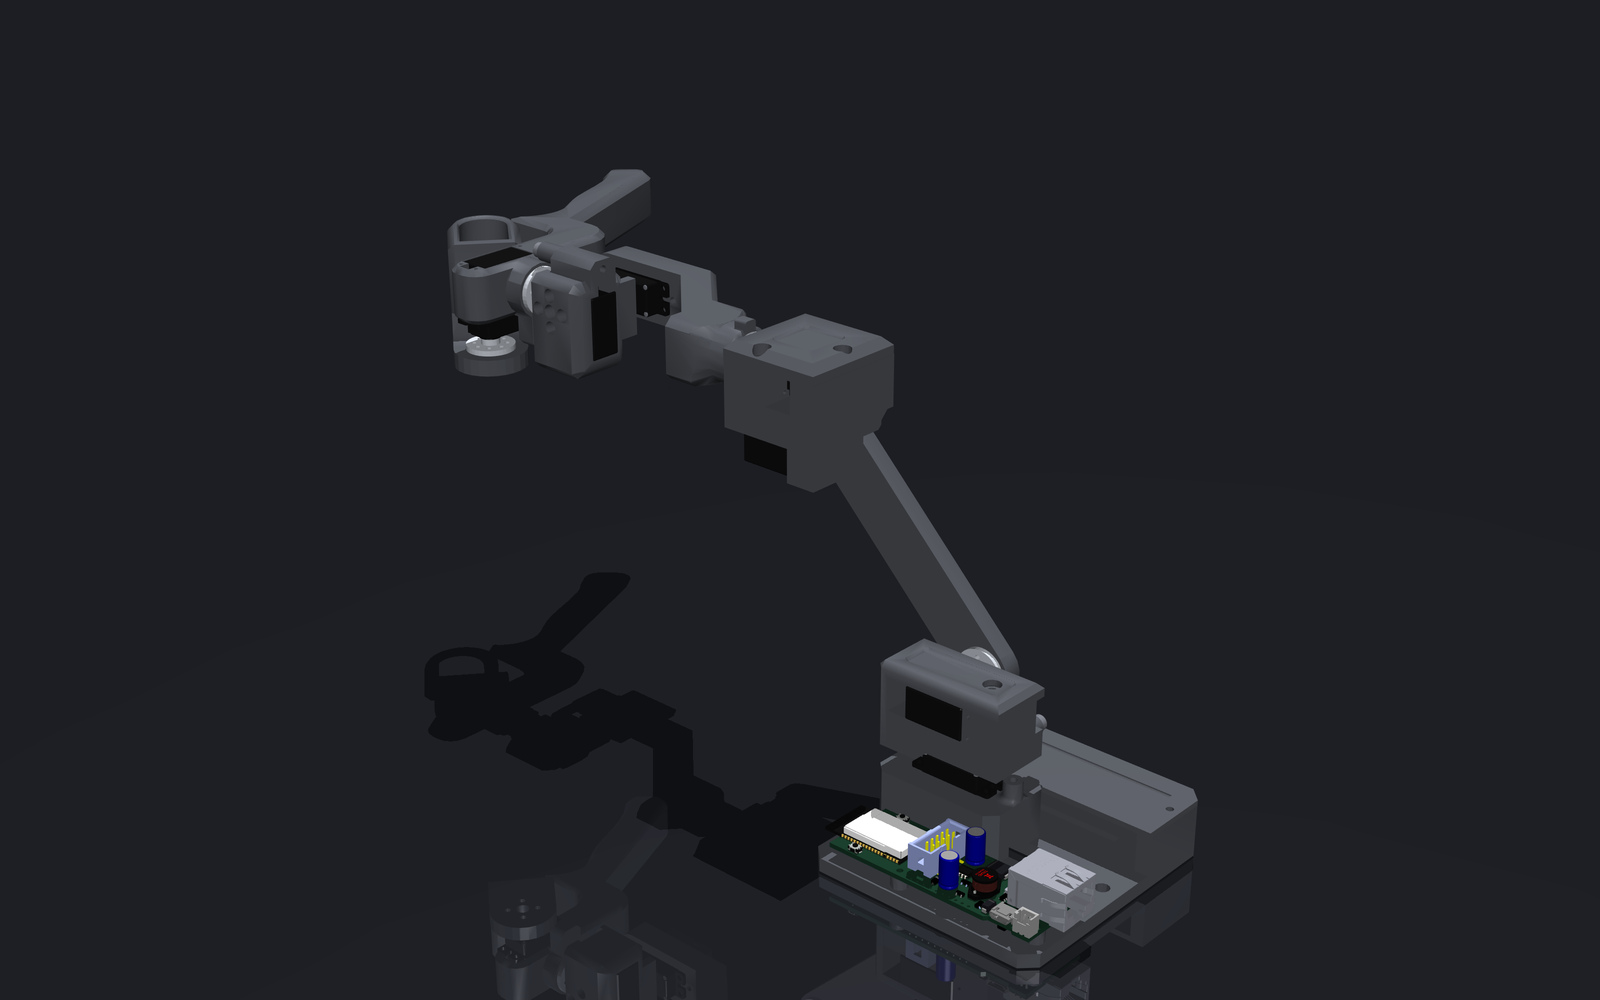
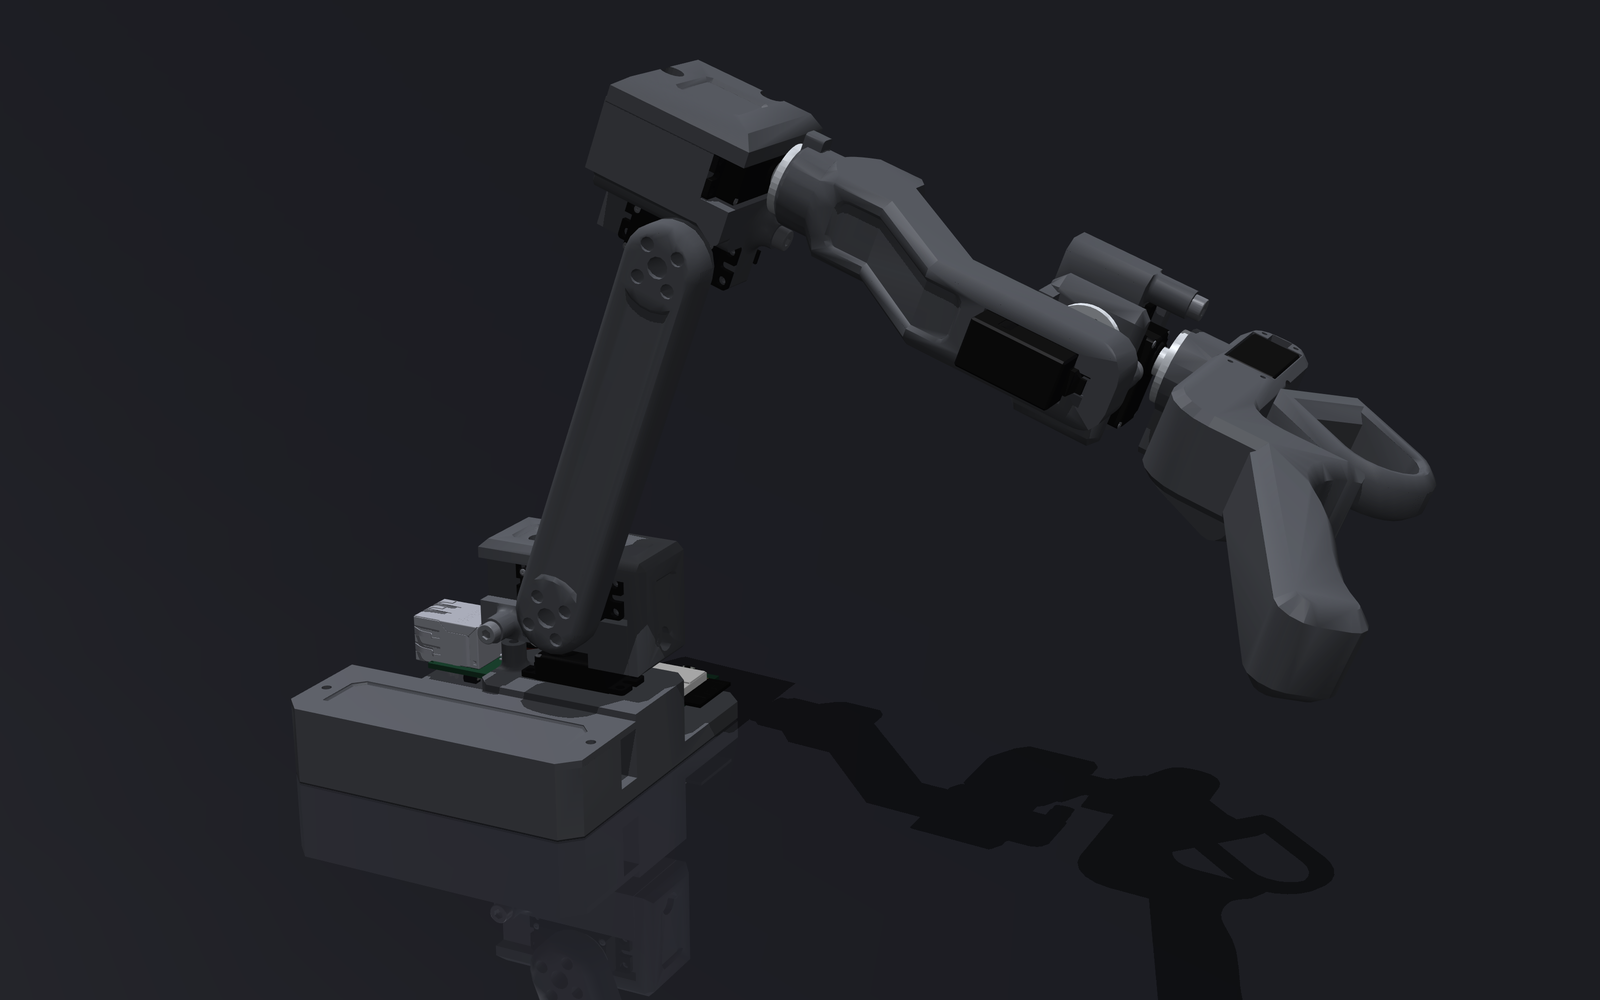
README: the hero render is the cover; the gallery is gone
Photos/RAFT_arm_img.png is now the arm with the handle held in front, in the
dark studio. The gallery section and its six pictures are removed, and
tools/render_gallery.py becomes tools/render_cover.py, which renders only the
cover (it reproduces the picture within 1/255). The assembly manual names the
model its pictures come from (firmware/tools/sim/model), not raft_description.

Changed region(s): [[0.2812, 0.062, 0.9062, 1.0], [0.1875, 0.496, 0.4688, 0.837], [0.3125, 0.93, 0.3438, 1.0]]

diff --git a/tools/render_cover.py b/tools/render_cover.py
@@ -1,5 +1,5 @@
-"""Render the README's pictures of RAFT from its MuJoCo model into "Photos/": two views of the whole arm and the arm
-in five poses, each in a light and a dark studio (GitHub shows the one matching the reader's theme).
+"""Render the README's cover picture of RAFT from its MuJoCo model into "Photos/RAFT_arm_img.png": the arm with the
+handle held in front, as for teleoperation, in a dark studio.
 
 The arm's meshes are split into printed parts, servos, horns and screws as in render_assembly.py, each with its own
 material in the colours of RAFT's palette in robot_descriptions (the raft_* keys), and posed with the simulators'
@@ -7,7 +7,7 @@ model's keyframes. The ESP32-PoE is not in the model; given Olimex's board STEP
 (ESP32-PoE_Rev_L.step, or a GLB made from it) it sits on the Base as in the assembly manual (STEP needs cascadio).
 
     pip install mujoco trimesh pillow numpy
-    python tools/render_gallery.py [--esp32 path/to/ESP32-PoE_Rev_L.step]
+    python tools/render_cover.py [--esp32 path/to/ESP32-PoE_Rev_L.step]
 """
 import argparse
 import sys
@@ -16,24 +16,18 @@ from pathlib import Path
 
 import mujoco
 import numpy as np
-from PIL import Image, ImageDraw
+from PIL import Image
 
 sys.path.insert(0, str(Path(__file__).resolve().parent))
-import render_assembly as ra  # noqa: E402  (shell sorting, the board, fonts)
+import render_assembly as ra  # noqa: E402  (shell sorting, the board)
 
-OUT = ra.ROOT / "Photos"
+COVER = ra.ROOT / "Photos" / "RAFT_arm_img.png"
 SS = 2                                                   # rendered at twice the saved size, then scaled down
 BODIES = ["base_link", "link1", "link2", "link3", "link4", "link5", "link6", "gripper_trigger"]
-POSES = [("standby", "Standby"), ("handle_in_front", "Handle in front"), ("reach_forward", "Reach forward"),
-         ("stretched", "Stretched"), ("rest", "Rest")]
 
-# Source Robotics palette for the studio: Ghost Gray / Light Gray (light), Dark Charcoal / Dark Gray (dark)
-THEMES = {
-    "light": dict(top=(0.961, 0.961, 0.961), bottom=(0.894, 0.894, 0.894), floor=(0.93, 0.93, 0.935), refl=0.0,
-                  ink=(41, 43, 55), key=0.58, fill=0.26, rim=0.22, amb=0.34),
-    "dark": dict(top=(0.161, 0.169, 0.216), bottom=(0.067, 0.071, 0.086), floor=(0.09, 0.094, 0.11), refl=0.22,
-                 ink=(228, 228, 228), key=0.6, fill=0.18, rim=0.5, amb=0.24),
-}
+# the studio in the Source Robotics palette: Dark Charcoal / Dark Gray
+STUDIO = dict(top=(0.161, 0.169, 0.216), bottom=(0.067, 0.071, 0.086), floor=(0.09, 0.094, 0.11), refl=0.22,
+              key=0.6, fill=0.18, rim=0.5, amb=0.24)
 # the model's palette: printed parts, servos, horns, screws (render_assembly's piece classes -> palette keys)
 # RAFT's starting colours in robot_descriptions' palette (source/appearance/colors.json: raft_* keys, motors)
 PALETTE = {"structure": [0.3, 0.31, 0.335, 1], "motors": [0.06, 0.06, 0.065, 1], "horns": [0.74, 0.76, 0.79, 1],
@@ -64,8 +58,8 @@ def pieces_with_links(esp32):
     return pieces
 
 
-def build_model(pieces, theme, tmp):
-    t = THEMES[theme]
+def build_model(pieces, tmp):
+    t = STUDIO
     mats, assets, bodies = [], [], {b: [] for b in BODIES}
     for k, v in MATS.items():
         mats.append(f'<material name="m_{k}" rgba="{v["rgba"]}" specular="{v["specular"]}" shininess="{v["shininess"]}" reflectance="0"/>')
@@ -186,40 +180,18 @@ def main():
     ap = argparse.ArgumentParser(description=__doc__.splitlines()[0])
     ap.add_argument("--esp32", help="the ESP32-PoE STEP (or GLB), to show the board on the Base")
     a = ap.parse_args()
-    OUT.mkdir(exist_ok=True)
     pieces = pieces_with_links(a.esp32)
     poser = Poser()
-    HERO = ("handle_in_front", 116, -18)
-    BACK = ("reach_forward", 312, -24)
-    SIDE = (94, -13)
-    TILE = (600, 470)
-    # one scale for every pose tile: the largest distance any pose needs
-    side = {k: fit(posed_points(pieces, poser, k), *SIDE, TILE[0] / TILE[1], 1.04) for k, _ in POSES}
-    dside = max(d for _, d in side.values())
-    hero = fit(posed_points(pieces, poser, HERO[0]), HERO[1], HERO[2], 1.6, 1.16)
-    back = fit(posed_points(pieces, poser, BACK[0]), BACK[1], BACK[2], 1.6, 1.08)
+    key, azimuth, elevation = "handle_in_front", 116, -18
+    lookat, distance = fit(posed_points(pieces, poser, key), azimuth, elevation, 1.6, 1.16)
     with tempfile.TemporaryDirectory() as tmp:
-        for theme in THEMES:
-            sm = build_model(pieces, theme, tmp)
-            sd = mujoco.MjData(sm)
-            r = mujoco.Renderer(sm, 1000 * SS, 1600 * SS)
-            ink = THEMES[theme]["ink"]
-            poser.apply(HERO[0], sm, sd)
-            render(r, sd, hero[0], hero[1], HERO[1], HERO[2], (1600, 1000)).save(OUT / f"render_hero_{theme}.png", optimize=True)
-            poser.apply(BACK[0], sm, sd)
-            render(r, sd, back[0], back[1], BACK[1], BACK[2], (1600, 1000)).save(OUT / f"render_back_{theme}.png", optimize=True)
-            r.close()
-            r = mujoco.Renderer(sm, TILE[1] * SS, TILE[0] * SS)
-            strip = Image.new("RGB", (TILE[0] * len(POSES), TILE[1]))
-            for i, (key, label) in enumerate(POSES):
-                poser.apply(key, sm, sd)
-                c = side[key][0].copy(); c[2] = 0.105                     # the same height for every tile
-                t = render(r, sd, c, dside, SIDE[0], SIDE[1], TILE)
-                ImageDraw.Draw(t).text((28, 24), label, fill=ink, font=ra.font(28, bold=True))
-                strip.paste(t, (TILE[0] * i, 0))
-            strip.save(OUT / f"render_poses_{theme}.png", optimize=True)
-            r.close()
-            print("wrote", theme)
+        sm = build_model(pieces, tmp)
+        sd = mujoco.MjData(sm)
+        r = mujoco.Renderer(sm, 1000 * SS, 1600 * SS)
+        poser.apply(key, sm, sd)
+        render(r, sd, lookat, distance, azimuth, elevation, (1600, 1000)).save(COVER, optimize=True)
+        r.close()
+    print("wrote", COVER)
 
 
 if __name__ == "__main__":

diff --git a/README.md b/README.md
@@ -1,4 +1,4 @@
-![RAFT Teleoperation Arm](Photos/RAFT_arm_img.png)
+![RAFT with the handle held in front, as for teleoperation](Photos/RAFT_arm_img.png)
 
 
 > [!NOTE]
@@ -46,28 +46,6 @@ ESP32-PoE runs everything on board, with no PC in the loop:
   limits and a clutch.
 - **Over-the-network updates** when the board runs on PoE.
 
-## 🖼 Gallery
-
-<p align="center">
-<picture>
-  <source media="(prefers-color-scheme: dark)" srcset="Photos/render_hero_dark.png">
-  <img src="Photos/render_hero_light.png" alt="RAFT with the handle held in front, as for teleoperation" width="49%">
-</picture>
-<picture>
-  <source media="(prefers-color-scheme: dark)" srcset="Photos/render_back_dark.png">
-  <img src="Photos/render_back_light.png" alt="RAFT from behind, reaching forward, with the ESP32-PoE on the base" width="49%">
-</picture>
-</p>
-
-<p align="center">
-<picture>
-  <source media="(prefers-color-scheme: dark)" srcset="Photos/render_poses_dark.png">
-  <img src="Photos/render_poses_light.png" alt="RAFT in five poses: standby, handle in front, reach forward, stretched, rest">
-</picture>
-</p>
-
-Rendered from the arm's MuJoCo model by [`tools/render_gallery.py`](tools/render_gallery.py).
-
 ## 📁 What is in here
 
 | Folder / file | Contents |
@@ -78,7 +56,7 @@ Rendered from the arm's MuJoCo model by [`tools/render_gallery.py`](tools/render
 | [`firmware/`](firmware/) | ESP32 firmware (PlatformIO, C++), web UI, host tests and simulators, documentation |
 | [`raft_description`](raft_description/) | the model guide: URDF and MuJoCo downloads, from [robot_descriptions](https://github.com/Source-Robotics/robot_descriptions) |
 | [`examples/`](examples/) | `gravity_comp.py`: the arm floating in MuJoCo |
-| [`tools/`](tools/) | `render_assembly.py` (the assembly pictures), `render_gallery.py` (the pictures above) |
+| [`tools/`](tools/) | `render_assembly.py` (the assembly pictures), `render_cover.py` (the picture at the top) |
 | [`datasheets/`](datasheets/) | ESP32-PoE, HLS3606, TTLinker |
 
 ## ⚒How to build ?

diff --git a/Assembly manual/readme.md b/Assembly manual/readme.md
@@ -178,7 +178,7 @@ the checks before the first power-up, is in [bring-up step 2](../firmware/docs/b
    its stop screw was taken off.
 4. **Spring (optional).** The J2 counterbalance: [`firmware/docs/spring_mount.md`](../firmware/docs/spring_mount.md).
 
-The pictures are rendered from the arm's 3D model (`raft_description`) by
+The pictures are rendered from the arm's 3D model (the simulators' model in `firmware/tools/sim/model`) by
 [`tools/render_assembly.py`](../tools/render_assembly.py). Run it again after a CAD change. The ESP32-PoE is not part
 of the arm's model: the tool adds it from Olimex's board STEP (`--esp32 ESP32-PoE_Rev_L.step`, needs
 `pip install cascadio`).
